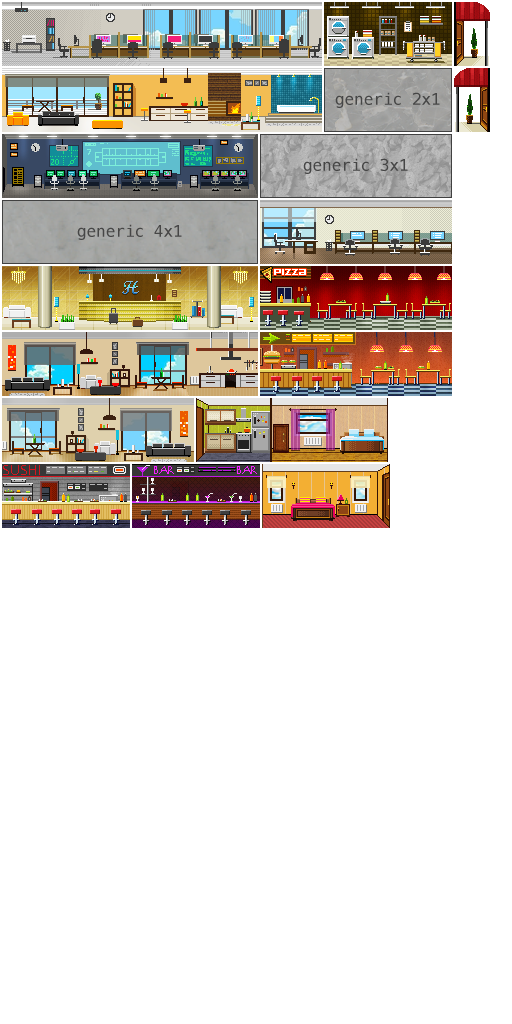
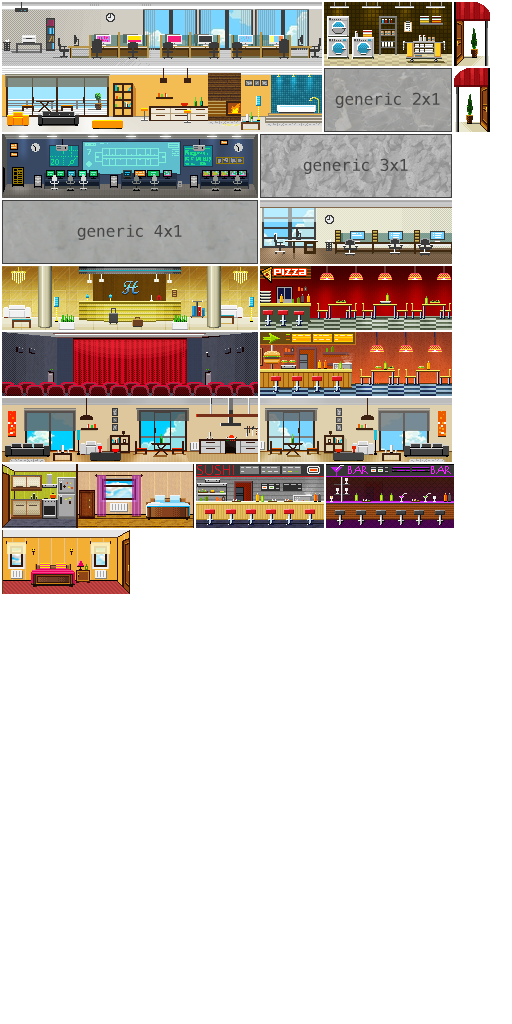
added movie theater, allow buildings to be built underground!

Changed region(s): [[0.0, 0.3125, 0.9062, 0.5938]]

diff --git a/main/source/com/happydroids/droidtowers/types/GridObjectType.java b/main/source/com/happydroids/droidtowers/types/GridObjectType.java
@@ -12,7 +12,6 @@ import com.happydroids.droidtowers.TowerAssetManager;
 import com.happydroids.droidtowers.entities.GridObject;
 import com.happydroids.droidtowers.grid.GameGrid;
 import com.happydroids.droidtowers.grid.GridPositionCache;
-import com.happydroids.droidtowers.math.Bounds2d;
 import com.happydroids.droidtowers.math.GridPoint;
 
 import java.util.Set;
@@ -89,13 +88,16 @@ public abstract class GridObjectType {
   }
 
   protected boolean checkIfTouchingAnotherObject(GridObject gridObject) {
-    Bounds2d belowObject = new Bounds2d(gridObject.getPosition().cpy().sub(0, 1), gridObject.getSize());
+    GridPoint gridPointBelow = gridObject.getPosition().cpy();
+    gridPointBelow.sub(0, 1);
 
-    GridPoint gridPoint = gridObject.getPosition().cpy();
-    gridPoint.sub(0, 1);
+    GridPoint gridPointAbove = gridObject.getPosition().cpy();
+    gridPointAbove.add(0, 1);
 
-    Set<GridObject> objectsBelow = GridPositionCache.instance().getObjectsAt(gridPoint, gridObject.getSize(), gridObject);
-    return objectsBelow.size() != 0;
+    Set<GridObject> objectsBelow = GridPositionCache.instance().getObjectsAt(gridPointBelow, gridObject.getSize(), gridObject);
+    Set<GridObject> objectsAbove = GridPositionCache.instance().getObjectsAt(gridPointAbove, gridObject.getSize(), gridObject);
+
+    return objectsBelow.size() != 0 || objectsAbove.size() != 0;
   }
 
   protected boolean checkForOverlap(GridObject gridObject) {
